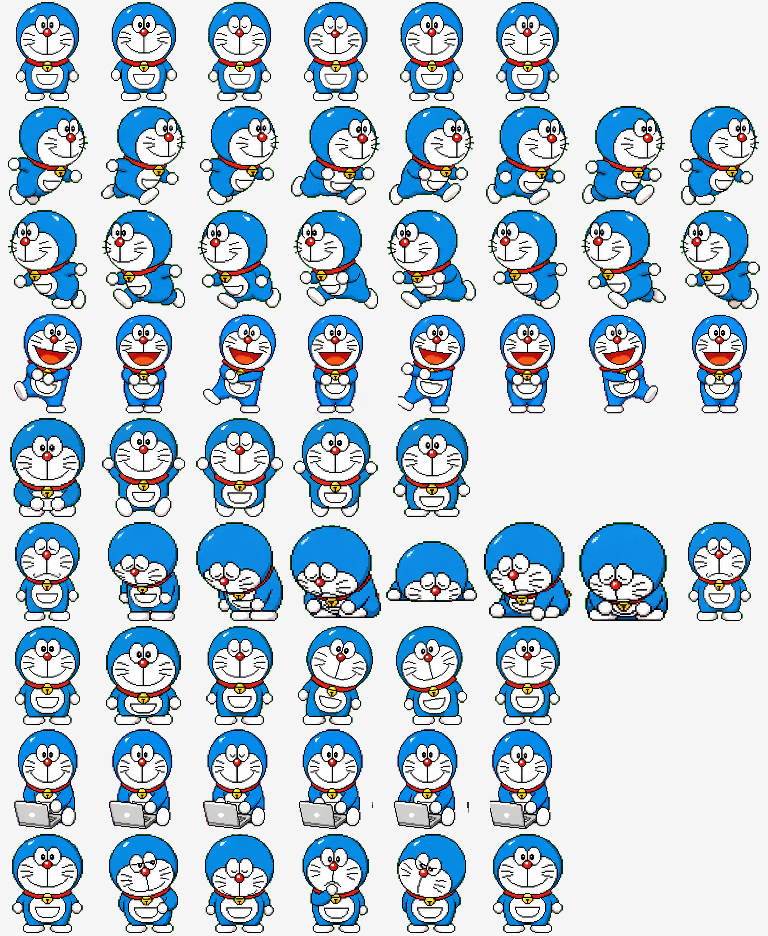
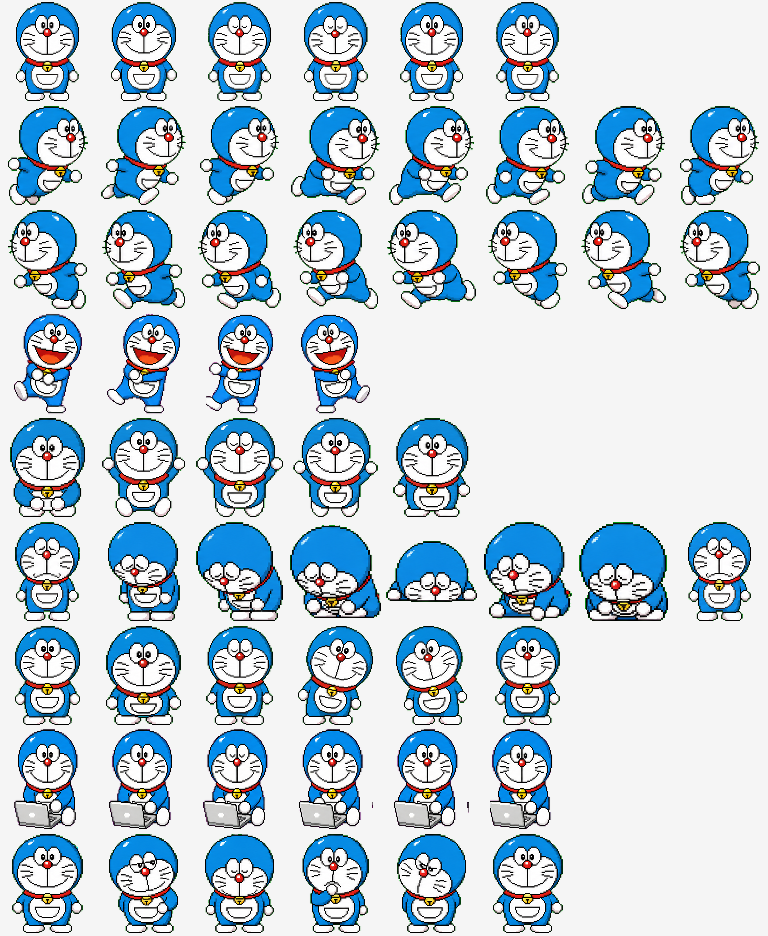
按官方契约修正:waving 压缩为4帧、pet.json 补充 id/displayName/spritesheetPath 字段

diff --git a/README.md b/README.md
@@ -11,7 +11,7 @@
 在标准哆啦A梦宠物包的基础上定制了两个动画:
 
 - **敲键盘干活**:Codex 在后台执行任务时,哆啦A梦坐在小笔记本前打字(原版是原地小跑)
-- **科目三庆祝舞**:任务完成时跳一段抖音科目三——扭胯、踢腿、甩臂画腕,8 帧丝滑循环(原版是普通挥手)
+- **科目三庆祝舞**:任务完成时跳一段抖音科目三——扭胯、踢腿、甩臂画腕(原版是普通挥手)。按官方契约 waving 行为 4 帧,从 8 帧原始动作中抽取关键帧制作
 
 ## 安装
 
